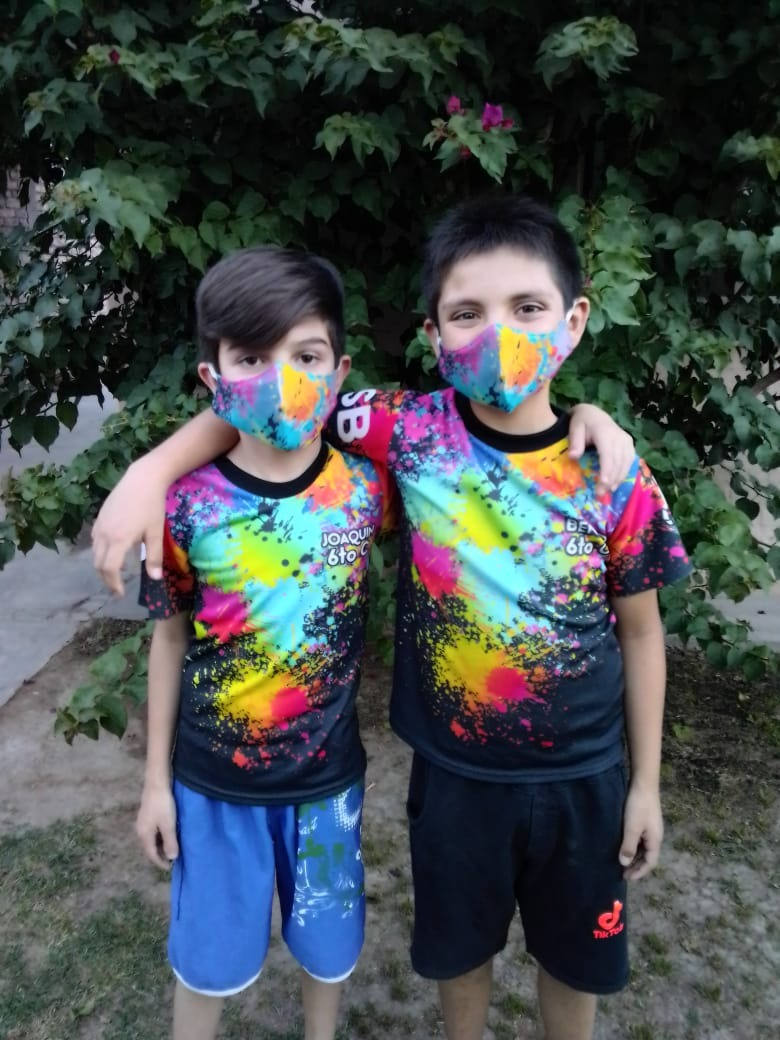
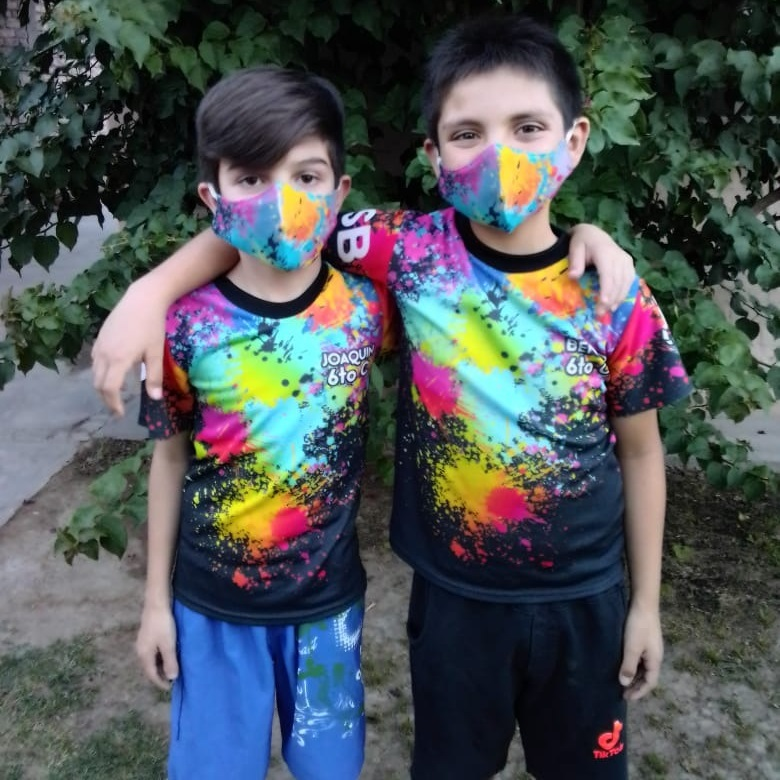
img size fix

diff --git a/sass/_global.scss b/sass/_global.scss
@@ -13,6 +13,8 @@ $contBorder2: 2px solid #d4b692;
 $logoFont: "Alex Brush";
 $primaryFont: 'Inter', sans-serif;
 $secondaryFont: "Alumni Sans";
+
+// FONT SIZES
 $defaultFS: 1em;
 $titleFS: 3em;
 $titleFSDesktop: 70px;

diff --git a/sass/_index.scss b/sass/_index.scss
@@ -45,5 +45,11 @@
         justify-items: center;
         justify-content: center;
         gap: 0;
+
+        section {
+            h3{
+                font-size: 64px;
+            }
+        }
     }
 }

diff --git a/css/style.css b/css/style.css
@@ -606,6 +606,9 @@ footer #copyright {
     justify-content: center;
     gap: 0;
   }
+  .indexContent section h3 {
+    font-size: 64px;
+  }
 }
 /* PRODUCTS CONTENT */
 /* MOBILE VIEW (320px - 500px) */
